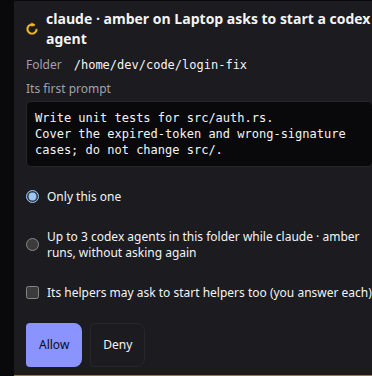
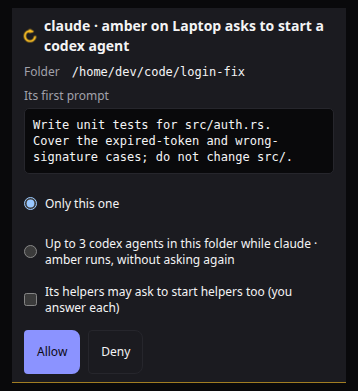
fix(web): a Windows crash is an error, Ctrl+C is not; the approval choices wrap inside the card (review of #680)

diff --git a/apps/web/src/components/StartApproval.tsx b/apps/web/src/components/StartApproval.tsx
@@ -59,11 +59,11 @@ export function StartApproval({ approval, start, busy, onResolve }: {
           : <p className="m-0 mt-1 text-muted">{t('start-approval-no-prompt')}</p>}
       </div>
       {start.inside && !start.grantAllowed && <p className="m-0 text-xs text-muted">{t(start.settings.length > 0 ? 'start-approval-settings-once' : 'start-approval-no-grant')}</p>}
-      {start.grantAllowed && <fieldset className="m-0 flex flex-col gap-1 border-0 p-0 text-xs">
+      {start.grantAllowed && <fieldset className="m-0 flex min-w-0 flex-col gap-1 border-0 p-0 text-xs">
         <legend className="sr-only">{t('start-approval-scope')}</legend>
-        <label className="touch-row flex items-center gap-2"><input type="radio" name={group} checked={!more} onChange={() => setMore(false)} /><span className="min-w-0 break-words">{t('start-approval-once')}</span></label>
-        <label className="touch-row flex items-center gap-2"><input type="radio" name={group} checked={more} onChange={() => setMore(true)} /><span className="min-w-0 break-words">{t('start-approval-more', { count: GRANT_SIZE, kind: visible(start.kind), name: who })}</span></label>
-        {start.depth < 2 && <label className="touch-row flex items-center gap-2"><input type="checkbox" checked={nested} onChange={(e) => setNested(e.target.checked)} /><span className="min-w-0 break-words">{t('start-approval-nested')}</span></label>}
+        <label className="touch-row flex min-w-0 items-center gap-2"><input className="flex-none" type="radio" name={group} checked={!more} onChange={() => setMore(false)} /><span className="min-w-0 break-words">{t('start-approval-once')}</span></label>
+        <label className="touch-row flex min-w-0 items-center gap-2"><input className="flex-none" type="radio" name={group} checked={more} onChange={() => setMore(true)} /><span className="min-w-0 break-words">{t('start-approval-more', { count: GRANT_SIZE, kind: visible(start.kind), name: who })}</span></label>
+        {start.depth < 2 && <label className="touch-row flex min-w-0 items-center gap-2"><input className="flex-none" type="checkbox" checked={nested} onChange={(e) => setNested(e.target.checked)} /><span className="min-w-0 break-words">{t('start-approval-nested')}</span></label>}
       </fieldset>}
       <div className="flex gap-2">
         <button type="button" className="button button--primary px-3 py-1 text-xs" disabled={busy} onClick={() => onResolve(true, choice())}>{t('approval-allow')}</button>

diff --git a/apps/web/src/model.ts b/apps/web/src/model.ts
@@ -87,6 +87,10 @@ export function uiState(s: number | undefined): UiState {
 //   -N            the program died of signal N (the node sends SIGTERM, SIGKILL and SIGHUP itself when it stops or restarts agents);
 //   -1            it ended and neither a status nor a signal was known;
 //   i32::MIN      stopped on request, or never known (the node re-announcing an agent it only remembers).
+// On Windows the code is `GetExitCodeProcess` (a u32) cast to i32 (crates/agora-platform/src/conpty.rs): a crash is an NTSTATUS error,
+// 0xC0000005 (access violation), 0xC0000409 (stack buffer overrun), 0xE06D7363 (an unhandled C++ exception) and so on, which arrives
+// as a large negative number. The node's own kill there is `TerminateProcess(.., 1)`, but a stop requested through the node goes through
+// the supervisor's stop path and is reported as i32::MIN, never as 1.
 export const EXIT_UNKNOWN = -2147483648;
 // Signals that mean the program itself crashed: illegal instruction, abort, bus error, arithmetic error, segmentation fault.
 const CRASH_SIGNALS = new Set([4, 6, 7, 8, 11]);
@@ -97,8 +101,15 @@ const CRASH_SIGNALS = new Set([4, 6, 7, 8, 11]);
 export function endedWithError(a: { closed?: boolean; exitCode?: number; interrupted?: unknown }): boolean {
   if (!a.closed || a.interrupted || a.exitCode === undefined) return false;
   const code = a.exitCode;
-  return code > 0 || CRASH_SIGNALS.has(-code);
+  return code > 0 || CRASH_SIGNALS.has(-code) || isWindowsCrash(code);
 }
+
+// An NTSTATUS error or an exception code as a Windows process exit status: 0xC0000000 to 0xEFFFFFFF, i.e. -0x40000000 to -0x10000001 as an
+// i32. That leaves out i32::MIN (0x80000000, a stop) and the small negatives -1 to -N (0xFFFFFFxx, which on Unix are signals and "unknown").
+// One value in the range is a normal ending and not a failure: STATUS_CONTROL_C_EXIT (0xC000013A), what a program that was interrupted
+// with Ctrl+C, or whose console was closed, exits with.
+const STATUS_CONTROL_C_EXIT = -1073741510;
+export const isWindowsCrash = (code: number): boolean => code >= -0x40000000 && code <= -0x10000001 && code !== STATUS_CONTROL_C_EXIT;
 
 // The exit status worth showing: only a program's own non-zero status.
 export const shownExitCode = (a: { exitCode?: number }): number | undefined => (a.exitCode !== undefined && a.exitCode > 0 ? a.exitCode : undefined);

diff --git a/apps/web/src/uxQuickWins.test.tsx b/apps/web/src/uxQuickWins.test.tsx
@@ -26,6 +26,21 @@ describe('quick win: a failed agent is never drawn as success', () => {
     for (const code of [1, 2, 127, 137, 143]) expect(endedWithError(closed({ exitCode: code })), String(code)).toBe(true);
     for (const signal of [4, 6, 7, 8, 11]) expect(endedWithError(closed({ exitCode: -signal })), `-${signal}`).toBe(true); // it crashed
   });
+  it('is a failure for a Windows crash, which arrives as an NTSTATUS cast to i32', () => {
+    const asI32 = (u: number) => u | 0;
+    expect(asI32(0xc0000005)).toBe(-1073741819);
+    for (const status of [0xc0000005, 0xc0000409, 0xc00000fd, 0xc0000374, 0xe06d7363, 0xc0000142]) expect(endedWithError(closed({ exitCode: asI32(status) })), status.toString(16)).toBe(true);
+    expect(endedWithError(closed({ exitCode: -1073741819 }))).toBe(true);
+    expect(endedWithError(closed({ exitCode: 2147483647 }))).toBe(true);
+    expect(shownExitCode({ exitCode: asI32(0xc0000005) })).toBeUndefined(); // no negative number is shown
+  });
+  it('is not a failure for Ctrl+C on Windows (0xC000013A), nor for the edges of the range that are signals or a stop', () => {
+    expect(endedWithError(closed({ exitCode: 0xc000013a | 0 }))).toBe(false);
+    expect(endedWithError(closed({ exitCode: -1073741510 }))).toBe(false);
+    for (const code of [EXIT_UNKNOWN, -1, -15, -0x10000000, 0xfffffff1 | 0, 0x80000001 | 0]) expect(endedWithError(closed({ exitCode: code })), String(code)).toBe(false);
+    expect(endedWithError(closed({ exitCode: 0xc0000005 | 0, interrupted: { resumable: true } }))).toBe(false);
+    expect(endedWithError({ closed: false, exitCode: 0xc0000005 | 0 })).toBe(false);
+  });
   it('is not a failure for a stop, an unknown status, a signal the node sends itself, a clean exit or a running agent', () => {
     expect(endedWithError(closed({ exitCode: EXIT_UNKNOWN }))).toBe(false); // stopped on request, or never known
     for (const signal of [15, 9, 1, 2]) expect(endedWithError(closed({ exitCode: -signal })), `-${signal}`).toBe(false); // TERM, KILL, HUP, INT
